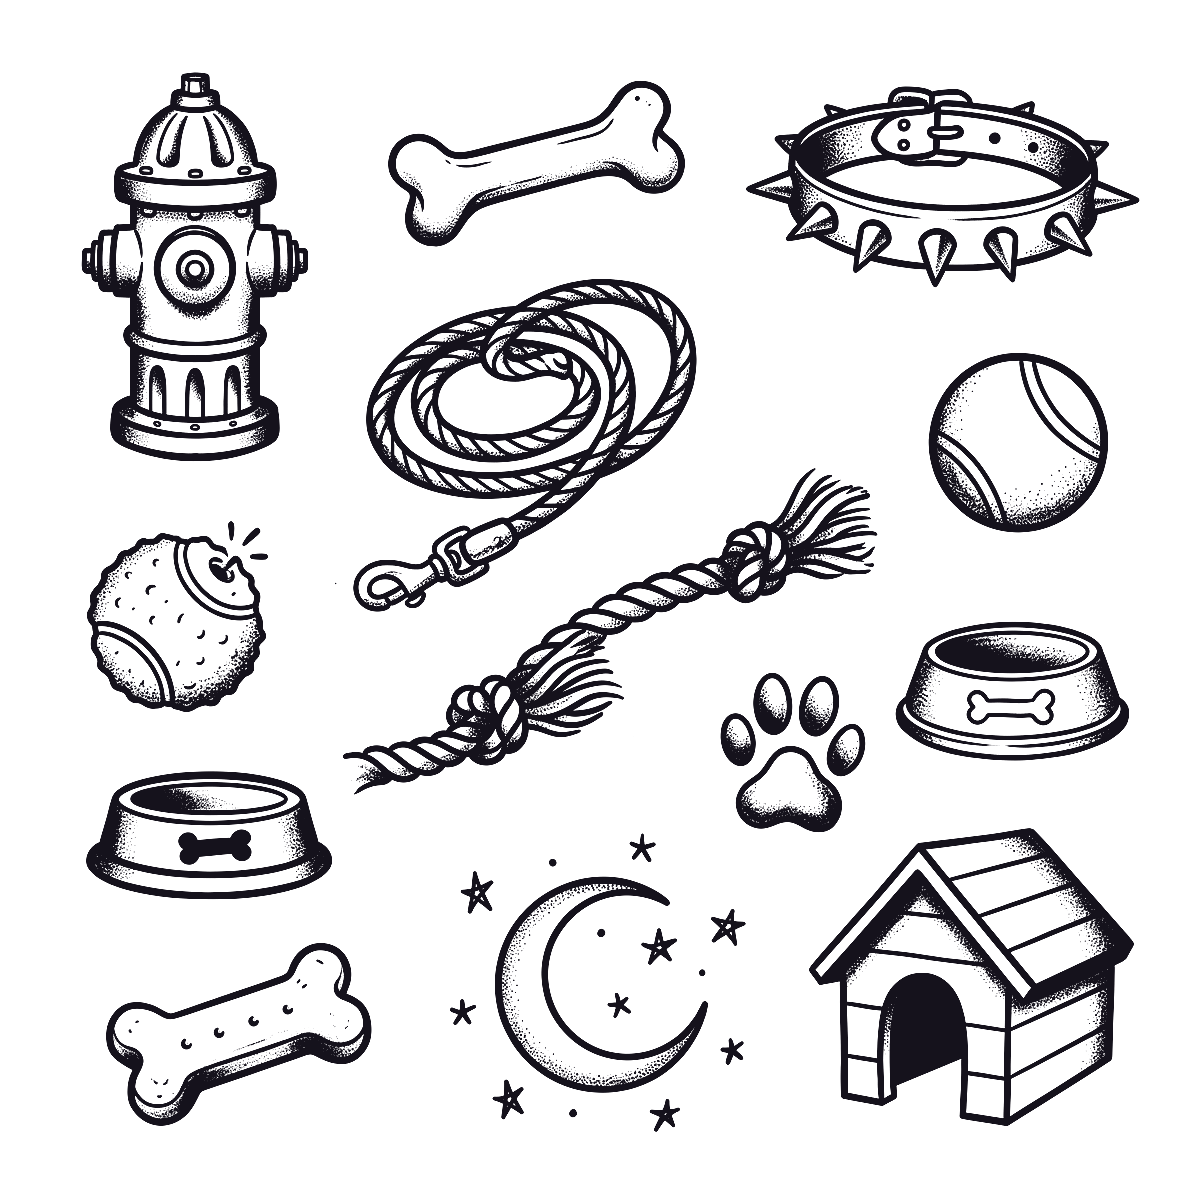
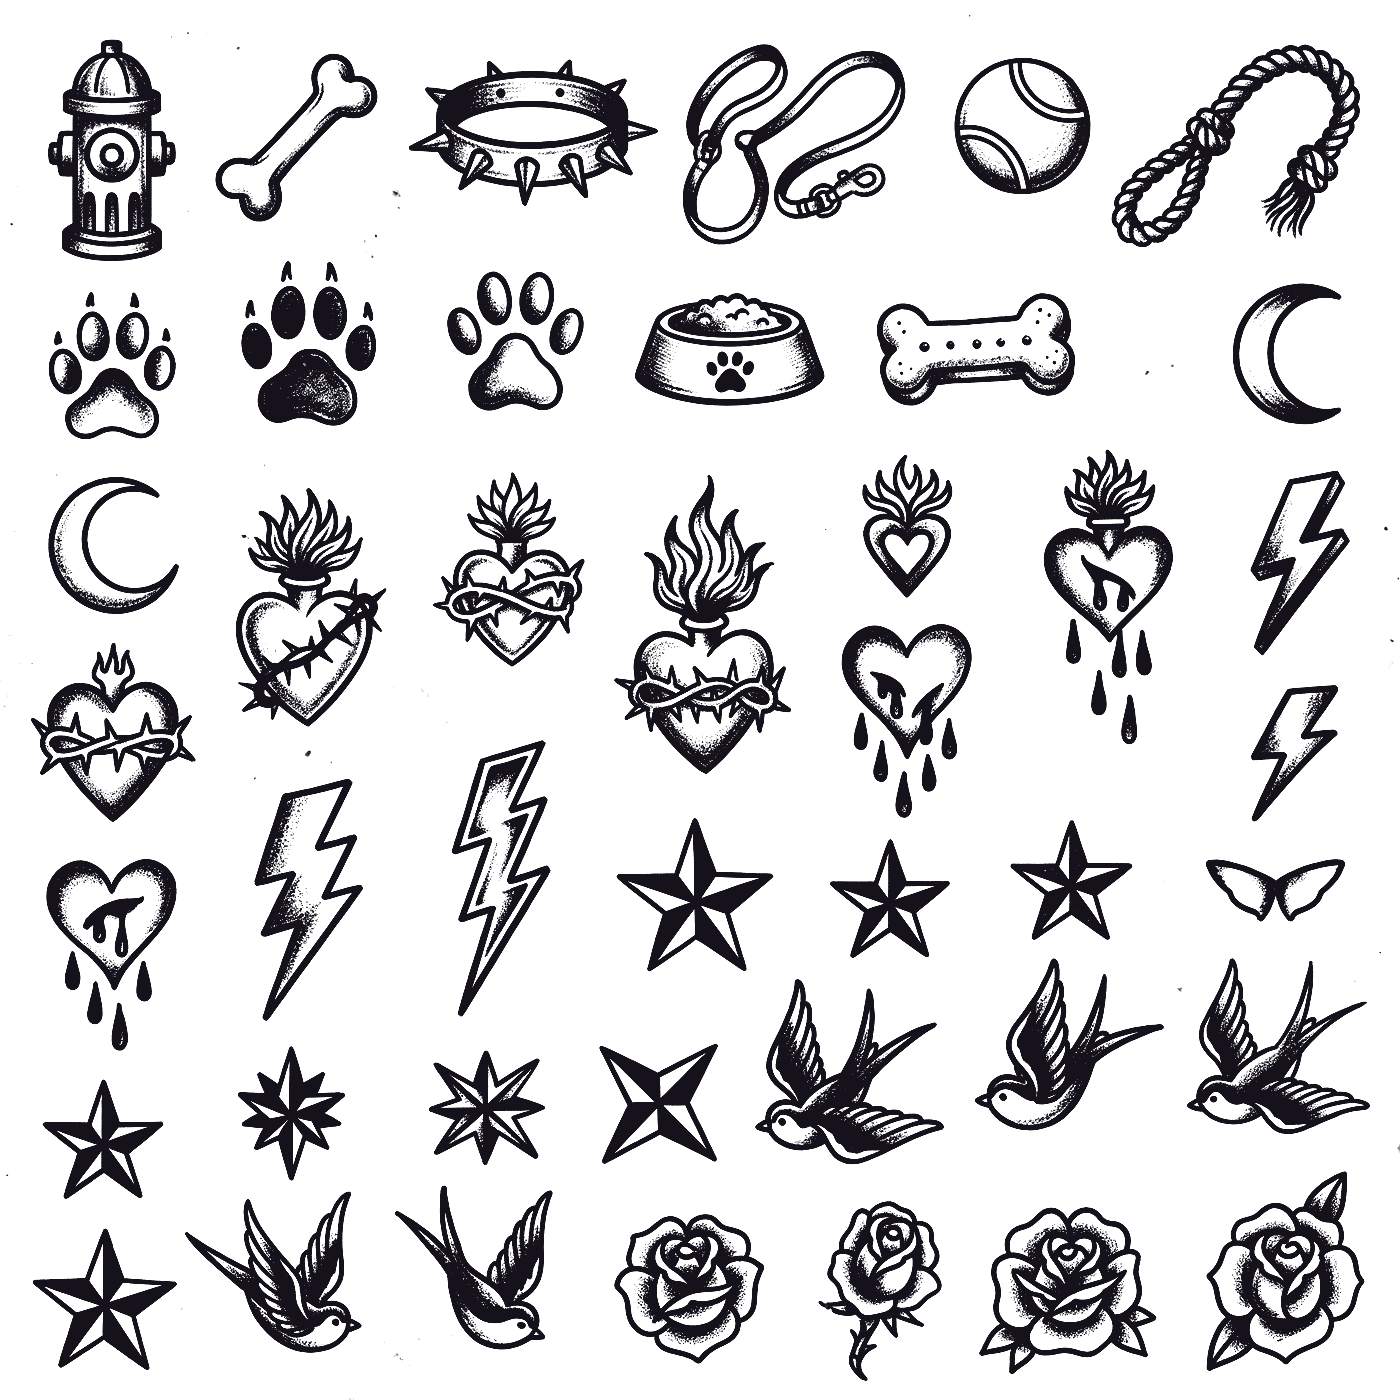
Denser traditional flash background, tattoo font on philosophy headline
New flash sheet: smaller motifs, authentic sailor-jerry look with sacred
and bleeding hearts, swallows, nautical stars, bolts, roses alongside the
dog gear. Tile reduced to 380px. 'The old-school stuff stays in the past.'
now set in Rye as first pass at the tattoo lettering Chaz asked for.

diff --git a/index.html b/index.html
@@ -6,7 +6,7 @@
 <title>Bark at the Moon | Fear-Free Dog Training & Pet Care</title>
 <meta name="description" content="Certified positive-reinforcement dog training and pet care. Zero fear, zero force, zero shock. Now howling our way from the Jersey Shore to St. Pete, FL.">
 <link rel="preconnect" href="https://fonts.googleapis.com">
-<link href="https://fonts.googleapis.com/css2?family=Bebas+Neue&family=Permanent+Marker&family=Poppins:wght@400;600;800&display=swap" rel="stylesheet">
+<link href="https://fonts.googleapis.com/css2?family=Bebas+Neue&family=Permanent+Marker&family=Poppins:wght@400;600;800&family=Rye&display=swap" rel="stylesheet">
 <link rel="stylesheet" href="styles.css">
 </head>
 <body>
@@ -50,7 +50,7 @@
     <div class="split">
       <div>
         <div class="kicker">Our whole philosophy</div>
-        <h2 class="title">The old-school stuff stays in the past.</h2>
+        <h2 class="title tattoo-font">The old-school stuff stays in the past.</h2>
         <p class="lede">Alpha rolls, "dominance," choke chains, yelling. That era is over, and the science buried it. We train the modern way: reward what's right, manage what's not, and build a dog who works <em>with</em> you because they trust you, not because they're afraid of you.</p>
         <blockquote class="pull">"Let's turn your dog into the superhero they were born to be."</blockquote>
         <p style="font-size:14px; color:#574f43;">— Erica Piancone, Founder · VSA-Certified Dog Trainer, Fear Free Certified® Professional</p>

diff --git a/styles.css b/styles.css
@@ -203,11 +203,19 @@ section { padding: 64px 0; }
   position: absolute;
   inset: 0;
   background: url("assets/flash-bg.png") repeat;
-  background-size: 460px 460px;
+  background-size: 380px 380px;
   opacity: 0.07;
   pointer-events: none;
 }
 .flash-bg > .wrap { position: relative; }
+
+/* tattoo-parlor lettering for select headlines */
+.tattoo-font, h2.title.tattoo-font {
+  font-family: "Rye", "Bebas Neue", serif;
+  font-size: clamp(22px, 3.4vw, 36px);
+  letter-spacing: 0.01em;
+  line-height: 1.2;
+}
 .section-cream { background: var(--cream); color: var(--text-dark); }
 .section-dark { background: var(--night); }
 .section-ink { background: var(--ink); }
